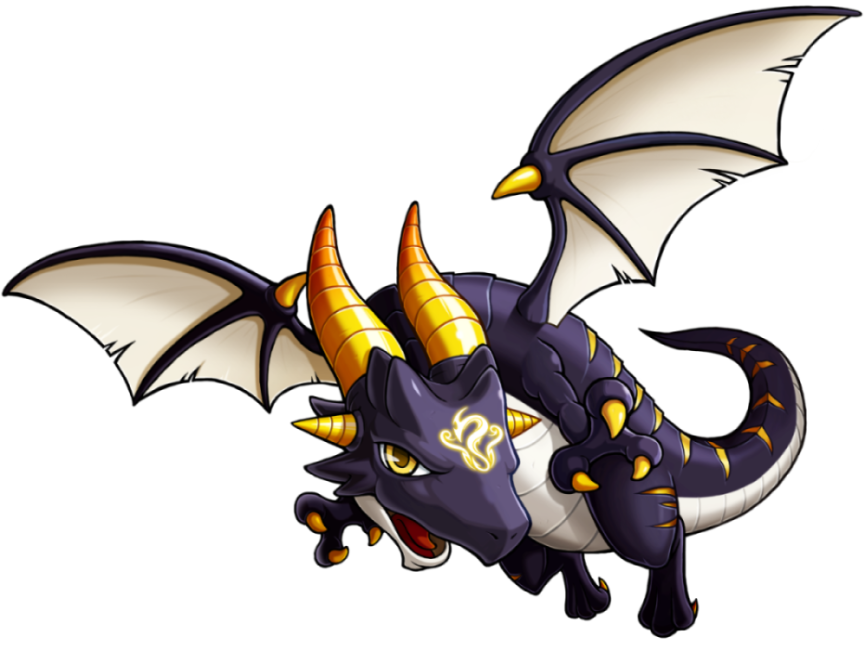
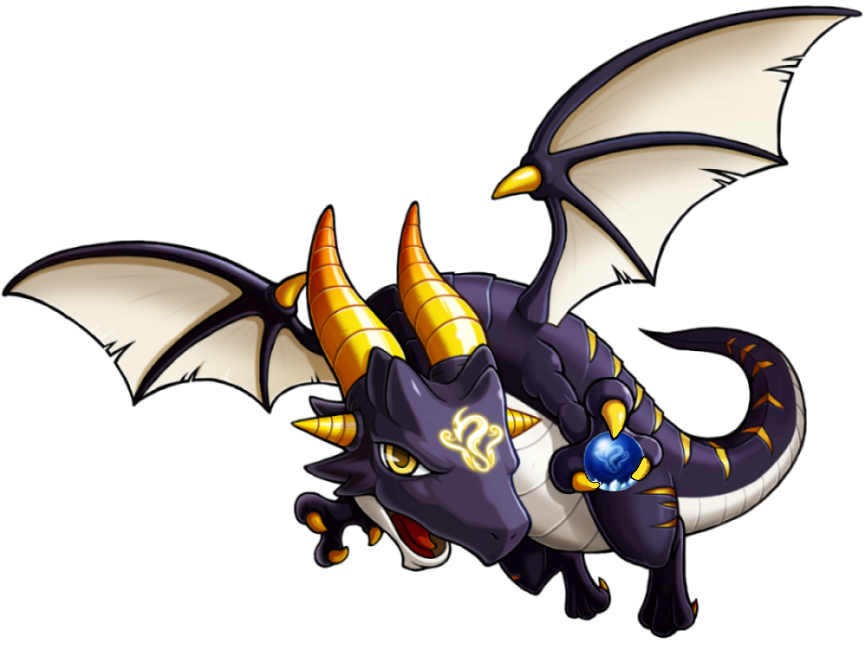
bro

Changed region(s): [[0.6555, 0.6462, 0.7491, 0.7692]]

diff --git a/public/game/script.js b/public/game/script.js
@@ -12,7 +12,9 @@ let pierre_face;
 let player;
 let player_face;
 let shadow;
+let dragon;
 let dragon_face;
+let dragon_face_2;
 let dragon_fly;
 
 // sound effects
@@ -31,9 +33,12 @@ let bg4;
 let bg4_2;
 let bg4_3;
 let bg5;
+let bg6;
 let ending1bg;
+let portal;
 let dragon_breath;
 let fall;
+let warp;
 
 function preload(){
     // sound effect
@@ -55,8 +60,10 @@ function preload(){
     shadow = loadImage("../assets/shadow.gif");
 
     //dragon
+    dragon = loadImage("../assets/dragon.png");
     dragon_face = loadImage("../assets/dragon_face.png");
     dragon_fly = loadImage("../assets/dragon_fly.png");
+    dragon_face_2 = loadImage("../assets/dragon_face_2.png");
 
     // bg 1
     bg1 = loadImage("../assets/bg1.jpg");
@@ -66,7 +73,10 @@ function preload(){
     bg4_2 = loadImage("../assets/bg4-2.png");
     bg4_3 = loadImage("../assets/bg4-3.png");
     bg5 = loadImage("../assets/bg5.jpg");
+    bg6 = loadImage("../assets/bg6.jpg");
     fall = loadImage("../assets/falling.gif");
+    warp = loadImage("../assets/warp.gif");
+    portal = loadImage("../assets/portal.gif");
     dragon_breath = loadImage("../assets/dragon_breath.gif");
     ending1bg = loadImage("../assets/ending_1.jpg");
 }
@@ -109,7 +119,124 @@ function draw(){
     if ( scene == 5 ){
         ending1Scene();
     }
+
+    if ( scene == 6){
+        ending2Scene();
+    }
     
+}
+
+function ending2Scene(){
+    if(!callofsilence_bgm.isPlaying()){
+        counter = 0;
+        playCallofSilence();
+    }
+
+    if(current == 0){
+        image(bg1, -100, -200);
+        image(player, 500, 300);
+        image(pierre, 750, 200);
+        image(dragon, -75, 40);
+        text('There lies before them the being who started it all', 250, 555);
+        text('Pierre', 250, 605);
+    }
+
+    if(current == 1){
+        image(bg1, -100, -200);
+        image(player, 500, 300);
+        image(pierre, 750, 200);
+        image(dragon, -75, 40);
+        image(pierre_face, 680, 250);
+        text('Well well well, props to you two', 250, 555);
+        text('for figuring out how to get out', 250, 580);
+        text('click to continue', 810, 725);
+    }
+
+    if(current == 2){
+        image(bg1, -100, -200);
+        image(player, 500, 300);
+        image(pierre, 750, 200);
+        image(dragon, -75, 40);
+        image(player_face, 25, 425);
+        text('We\'ve had enough of your bull shyt!', 320, 555);
+        text('We want to get outta here! RIGHT NOW!', 320, 580);
+        text('click to continue', 810, 725);
+    }
+
+    if(current == 3){
+        image(bg1, -100, -200);
+        image(player, 500, 300);
+        image(pierre, 750, 200);
+        image(dragon, -75, 40);
+        image(pierre_face, 680, 250);
+        text('Come now, hold your horses. You guys', 250, 555);
+        text('are actually the first people to figure', 250, 580);
+        text('out how to get out.', 250, 605);
+        text('click to continue', 810, 725);
+    }
+
+    if(current == 4){
+        image(bg1, -100, -200);
+        image(player, 500, 300);
+        image(pierre, 750, 200);
+        image(dragon, -75, 40);
+        image(pierre_face, 680, 250);
+        text('That being said, I have a proposition', 250, 555);
+        text('for you guys. If you prove yourselves', 250, 580);
+        text('worthy I\'ll allow you two to rule over', 250, 605);
+        text('this world as gods.', 250, 630);
+        text('click to continue', 810, 725);
+    }
+
+    if(current == 5){
+        image(bg1, -100, -200);
+        image(player, 500, 300);
+        image(pierre, 750, 200);
+        image(dragon, -75, 40);
+        image(pierre_face, 680, 250);
+        text('Whadya say? Sound fun right?', 250, 555);
+        text('click to continue', 810, 725);
+    }
+
+    if(current == 6){
+        image(bg1, -100, -200);
+        image(player, 500, 300);
+        image(pierre, 750, 200);
+        image(dragon, -75, 40);
+        image(dragon_face_2, 0, 425);
+        text('Do not be fooled by his trickery!', 415, 555);
+        text('click to continue', 810, 725);
+    }
+
+    if(current == 7){
+        image(bg1, -100, -200);
+        image(player, 500, 300);
+        image(pierre, 750, 200);
+        image(dragon, -75, 40);
+        image(pierre_face, 680, 250);
+        text('No tricks, no gimmicks.', 250, 555);
+        text('click to continue', 810, 725);
+    }
+
+    if(current == 8){
+        image(bg1, -100, -200);
+        image(player, 500, 300);
+        image(pierre, 750, 200);
+        image(dragon, -75, 40);
+        image(pierre_face, 680, 250);
+        text('Whadya say?', 250, 555);
+        text('click to continue', 810, 725);
+    }
+
+    if(current == 9){
+        image(bg1, -100, -200);
+        image(player, 500, 300);
+        image(pierre, 750, 200);
+        image(dragon, -75, 40);
+        clickable = false;
+        text('(a) choose to live like gods', 320, 555);
+        text('(b) choose to be resurrected', 320, 635);
+    }
 }
 
 function fifthScene(){
@@ -117,8 +244,8 @@ function fifthScene(){
     if(current == 0){
         playDragonBGM();
         text('You help out the dragon and release it from its seal.', 120, 530);
-        text('He streches his wings out immediately letting out a sigh', 120, 555);
-        text('of relief', 120, 580);
+        text('He streches his wings out immediately letting out a huge', 120, 555);
+        text('roar!', 120, 580);
         text('click to continue', 810, 725);
     }
 
@@ -139,50 +266,52 @@ function fifthScene(){
     }
 
     if(current == 3){
-        text('You jump on his head and he grabs the orb of life', 120, 540);
-        text('and he flys through the hole you fell from.', 120, 565);
+        text('You jump on his head and he grabs the orb of life. After grabbing', 120, 540);
+        text('the orb of life it seems that the orb of life increased his vitality.', 120, 565);
         text('click to continue', 810, 725);
     }
 
     if(current == 4){
+        image(dragon_face, 600, 400);
+        text('This thing is incredible! Simply holding it is', 120, 540);
+        text('giving me a power up. Sort of like mario\'s', 120, 565);
+        text('mushroom.', 120, 590);
+        text('click to continue', 810, 725);
+    }
+
+    if(current == 5){
         image(dragon_fly, 50, 0);
         image(player, 460, 350);
         text('click to continue', 810, 725);
     }
 
-    if(current == 5){
-        text('You continue flying violently through the hole', 120, 540);
-        text('until you see a bright light up above.', 120, 565);
+    if(current == 6){
+        text('The dragon flys up through the hole which you fell through.', 120, 540);
+        text('Very quickly you see a bright light at the top of the hole', 120, 565);
         text('click to continue', 810, 725);
     }
 
-    if(current == 6){
+    if(current == 7){
         text('You fly straight out of the hole and you have to cover your', 120, 540);
         text('eyes from the glare. You slowly open your eyes and you see', 120, 565);
         text('click to continue', 810, 725);
     }
 
-    if(current == 7){
+    if(current == 8){
         image(bg5, 0, -80);
+        image(player_face, 25, 425);
         if(dragon_bgm.isPlaying()){
             dragon_bgm.stop(); counter = 0;
             playCallofSilence();
-        }
-        text('OMG!! This view is amazing!', 120, 540);
-        text('click to continue', 810, 725);
-    }
-
-    if(current == 8){
-        image(bg5, 0, -80);
-        text('You look below and you see an amazing view of the world', 120, 540);
-        text('You see a desert on your left and to the far right you see the forest', 120, 565);
+        } else {playCallofSilence();}
+        text('OMG!! This view is amazing!', 320, 555);
         text('click to continue', 810, 725);
     }
 
     if(current == 9){
         image(bg5, 0, -80);
-        text('The dragon then procceds to fly towards the forest and tells you to', 120, 540);
-        text('keep an eye out for the shadow monster.', 120, 565);
+        text('You look below and you see an amazing view of the world', 120, 540);
+        text('You see a desert on your left and to the far right you see the forest', 120, 565);
         text('click to continue', 810, 725);
     }
 
@@ -191,6 +320,100 @@ function fifthScene(){
         text('The dragon then procceds to fly towards the forest and tells you to', 120, 540);
         text('keep an eye out for the shadow monster.', 120, 565);
         text('click to continue', 810, 725);
+    }
+
+    if(current == 11){
+        image(bg6, 0, -80);
+        text('As the dragon flys over the forest you scan the area looking for the shadow', 120, 550);
+        text('monster. Both of you searched for hours until you managed to catch a', 120, 575);
+        text('glimpse of the the shadow\'s flicker from the corner of your eye.', 120, 600);
+        text('click to continue', 810, 725);
+    }
+
+    if(current == 12){
+        image(bg6, 0, -80);
+        image(player_face, 25, 425);
+        text('LOOK!! He\'s over there!', 320, 555);
+        text('click to continue', 810, 725);
+    }
+
+    if(current == 13){
+        image(bg6, 0, -80);
+        text('The dragon lets out a huge roar and attacks the shadow monster.', 120, 550);
+        text('click to continue', 810, 725);
+    }
+
+    if(current == 14){
+        image(bg6, 0, -80);
+        image(dragon_face, 600, 400);
+        text('Boro Buresu!!', 120, 600);
+        text('click to continue', 810, 725);
+    }
+
+    if(current == 15){
+        image(bg6, 0, -80);
+        text('The dragon releases a huge heat breath immediately incenerating the shadow', 120, 550);
+        text('monster as well as the surrounding area.', 120, 575);
+        text('click to continue', 810, 725);
+    }
+
+    if(current == 16){
+        image(bg6, 0, -80);
+        text('The dragon then grabs the cube of death into its other hand', 120, 550);
+        text('click to continue', 810, 725);
+    }
+
+    if(current == 17){
+        image(bg6, 0, -80);
+        image(dragon_face, 600, 400);
+        text('AAAAAAHHHH!!!! WHAT IS THIS THING!!??!', 120, 550);
+        text('THIS ACCURSED CUBE IS OBSORBING', 120, 575);
+        text('MY VITALITY!!', 120, 600);
+        text('click to continue', 810, 725);
+    }
+
+    if(current == 18){
+        image(bg6, 0, -80);
+        image(dragon_face, 600, 400);
+        text('If it wasn\'t for the cube of life restoring', 120, 550);
+        text('my vitality. Id\'ve been a goner.', 120, 575);
+        text('click to continue', 810, 725);
+    }
+
+    if(current == 19){
+        image(bg6, 0, -80);
+        image(dragon_face, 600, 400);
+        text('Okay now lets merge them togther and create the', 120, 550);
+        text('portal!! PIERRE!!! I\'M COMING FOR YOU', 120, 575);
+        text('click to continue', 810, 725);
+    }
+
+    if(current == 20){
+        image(bg6, 0, -80);
+        text('The dragon smacks the cube of death and the orb of life', 120, 550);
+        text('into each other. A huge explosion occurs and a portal', 120, 575);
+        text('tears open at the merging of the cube and the orb', 120, 600);
+        text('click to continue', 810, 725);
+    }
+
+    if(current == 21){
+        image(dragon_face, 600, 400);
+        image(portal, 390, 150);
+        text('Look! The portal is open! Quickly!!', 120, 550);
+        text('Lets traverse through it', 120, 575);
+        text('click to continue', 810, 725);
+    }
+
+    if(current == 22){
+        image(warp, 200, 150);
+        text('They traversed through the portal and on the other side', 120, 550);
+        text('they found themselves at the start. Where it all began.', 120, 575);
+        text('click to continue', 810, 725);
+    }
+
+    if(current == 23){
+        current = 0;
+        scene = 6;
     }
 }
 
@@ -476,9 +699,10 @@ function fourthScene(){
         image(bg4_2, 0, -50);
         image(player, 150, 371);
         image(dragon_face, 600, 400);
-        text('As soon as I found the orb of life I', 120, 540);
+        text('But as soon as I found the orb of life I', 120, 540);
         text('immediately got trapped in this ice.', 120, 565);
         text('I\'ve been gaurding this place ever since.', 120, 590);
+        text('That\'s actually the reason why I attacked you.', 120, 615);
         text('click to continue', 810, 725);
     }
 
@@ -622,7 +846,7 @@ function thirdScene(){
         image(player, 200, 350);
         clickable = false;
         text('When you decide to take the cube of death from the shadow your', 120, 530);
-        text('soul ends up getting engulfed in the shadows of death.', 120, 555);
+        text('soul ends up getting engulfed in the cube of death.', 120, 555);
         text('You died.', 120, 605);
         text('press \'r\' to restart the game', 810, 725);
     }
